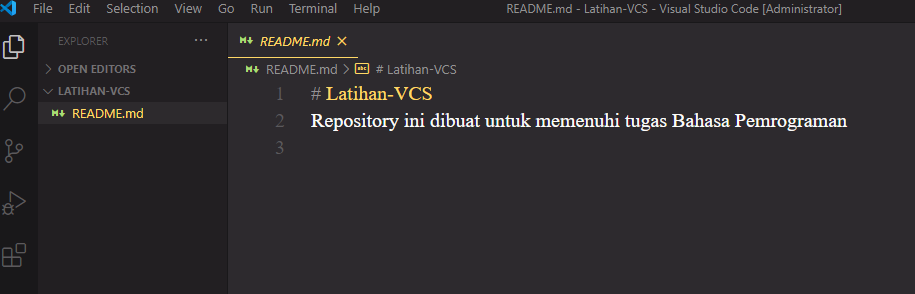
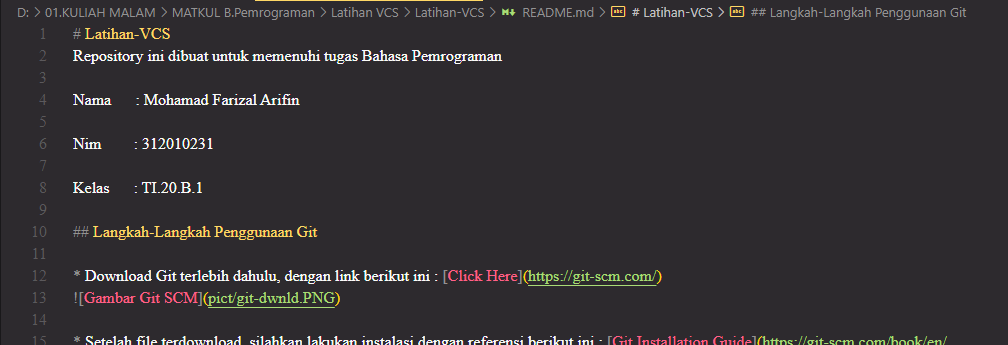
update README.md

diff --git a/README.md b/README.md
@@ -19,3 +19,68 @@ Kelas      : TI.20.B.1
     > git --version
 
     ![Git Pict Version Check](pict/gitv-ersion.PNG)
+
+    * Silahkan Buat akun di [GitHub](https://github.com) , seperti contoh dibawah ini. Dan lakukan *verifikasi* akun melalui email yang sudah terdaftar. 
+![Picture Github SignUp](pict/signup-git.PNG)
+
+* Jika akun GitHub sudah selesai dibuat dan diverifikasi, Proses selanjutnya silahkan buat *Repository* seperti gamabr dibawah ini.
+**Noted** : 
+> * Repository Name : (Silahkan isi nama repository yang diinginkan, seperti contoh saya ingin membuat repository *LatihanVCS*)
+> * Description : (Isi dengan deskripsi atau penjelasan tentang repository Anda)
+> * Public / Private : (PIlih salah satu jenis repository akan bisa dilihan sama semua orang atau tidak)
+> * Add a README.md file : Centang pada bagian ini jika Anda menginginkan file README.md ada di repository Anda
+> * Add .gitignore : Merupakan  sebuah file yang berisi daftar nama-nama file dan direktori yang akan diabaikan oleh Git.
+> * Choose a license : Silahkan centang jika Anda memiliki lisensi pada repository yang akan dibuat
+Kemudian tekan tombol **Create Repository** untuk menyimpan
+![Picture Create Github Repository](pict/creat-newrepo.PNG)
+
+* Jika repository sudah dibuat maka akan muncul tampilan seperti dibawah ini :
+![Picture - Github View 1](pict/newrepo2.PNG)
+
+* Proses pembuatan akun dan repository pada Github telah selesai, saat ini akan kita lakukan untuk *me-remote* repository Github pada GitBash Lokal. Bagaimana caranya?
+Langkah pertama kita harus menyalin *link URL* git kita di Github, dengan cara tekan tombol **Code** lalu klik *Copy*.
+
+![Picture - Copy Link Github](pict/linkremote.PNG)
+
+* Setelah *Link URL* git kita ter*copy*, Silahkan buka File Explorer pada Windows, kemudian pilih folder dimana kita akan men*download* Repository dari Github ke lokal. Kemudian Klik Kanan, Pilih ***Git Bash Here***.
+![Picture - Git Bash Here](pict/pasteurl.png)
+
+* *Pop Up* Command Prompt (CMD) akan terbuka. Pada proses ini kita akan melakukan download file repository yang tadi dibuat, dengan mengetikkan *syntax* berikut :
+> git clone [URL]
+Pada contohnya, saya akan memasukkan *git clone https://github.com/febroherdyanto/LatihanVCS.git*
+![Picture Git Clone](pict/clonevcs.PNG)
+
+* Setelah proses cloning selesai, pada saat ini kita masih pada folder awal (master), kita harus masuk kedalam folder yang telah dicloning tadi yaitu *LatihanVCS* dengan mengetikkan *syntax* berikut :
+> cd LatihanVCS/
+
+![Picture Pilih Direktori](pict/cd-git.PNG)
+
+* Saat ini kita sudah masuk kedalam folder *LatihanVCS*, Silahkan edit file **README.md** yang ada di File Explorer. Bisa menggunakan Text Editor (*Sublime Text, Notepad, Notepad++, Visual Studio Code*). Edit sesuai dengan keinginan. Aturan file .md (Markdown) bisa dilihat di Link berikut ini : [Click Here](https://guides.github.com/features/mastering-markdown/)
+![Picture - README.md Edited](editreadme.PNG)
+
+Setelah file README.md diedit, silahkan Simpan file tersebut dengan cara **CTRL+S** atau **File -> Save**
+
+* Langkah selanjutnya setelah file disimpan, kita kembali pada App Git Bash (CMD). Ketik pada Git Bash seperti berikut ini :
+> git add .
+
+![Picture - Git Add](pict/git-add.PNG)
+
+* Setelah selesai melakukan *git add .* langkah berikutnya kita akan melakukan **commit*. Fungsi commit adalah untuk menyimpan perubahan yang dilakukan, tetapi tidak ada perubahan pada remote repository. Ketik pada App Git Bash seperti berikut ini :
+> git commit "Update README.md"
+
+![Picture - Git Commit](pict/git-commit.PNG)
+
+* Git *commit* telah selesai di lakukan. Untuk saat ini akan melakuka Git Push, *Git Push* berfungsi untuk mengirimkan perubahan file setelah di commit ke remote repository. Silahkan ketik pada App Git Bash seperti berikut :
+> git push
+
+![Picture - Git Push](pict/git-push.PNG)
+
+* Semua proses telah selesai, silahkan kembali ke Web Browser untuk melihat perubahan yang telah di *commit* dan *push* dari remote. 
+
+![Picture - View 2](pict/git-view.PNG)
+
+Berikut adalah langkah-langkah penggunaan GIT
+
+Sekian informasi yang dapat saya sampaikan
+
+##TERIMA KASIH.
